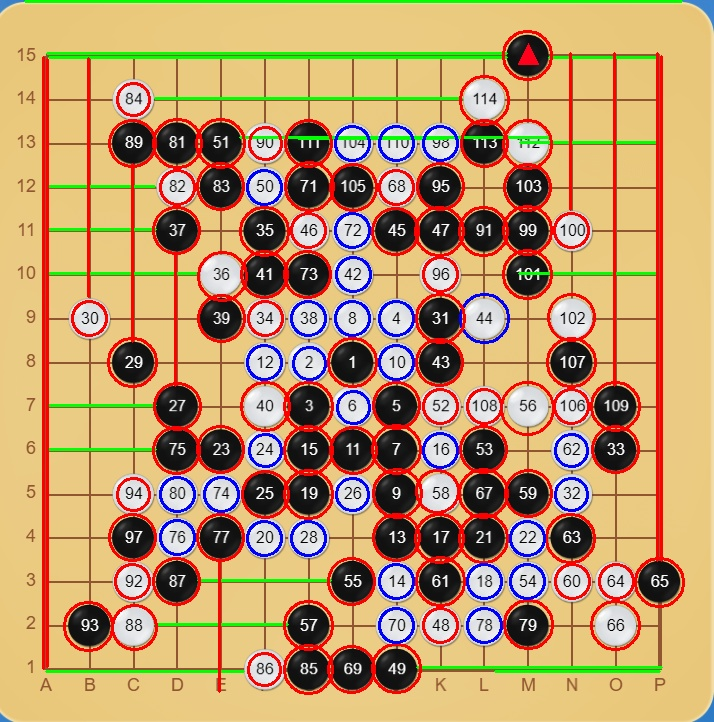
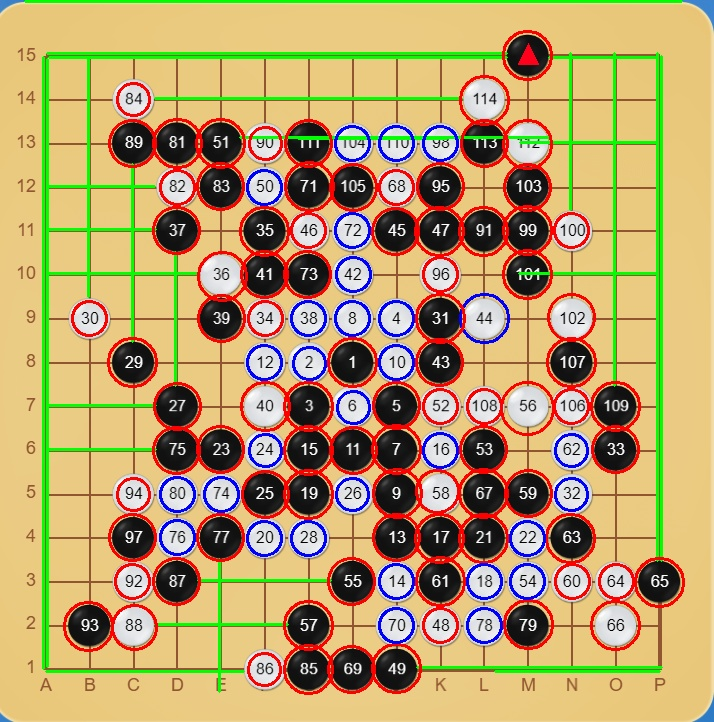
fix

diff --git a/src/python/util/board_edges.py b/src/python/util/board_edges.py
@@ -69,9 +69,11 @@ def board_tetect(image_path, save_dir):
         x1, y1, x2, y2 = line[0]
         cv2.line(image, (x1, y1), (x2, y2), (0, 255, 0), 2)
 
+
     for line in vertical_lines:
         x1, y1, x2, y2 = line[0]
-        cv2.line(image, (x1, y1), (x2, y2), (0, 0, 255), 2)
+        cv2.line(image, (x1, y1), (x2, y2), (0, 255, 0), 2)
+        
     
     # 高斯模糊
     # blur = cv2.GaussianBlur(gray,(5,5),0)
